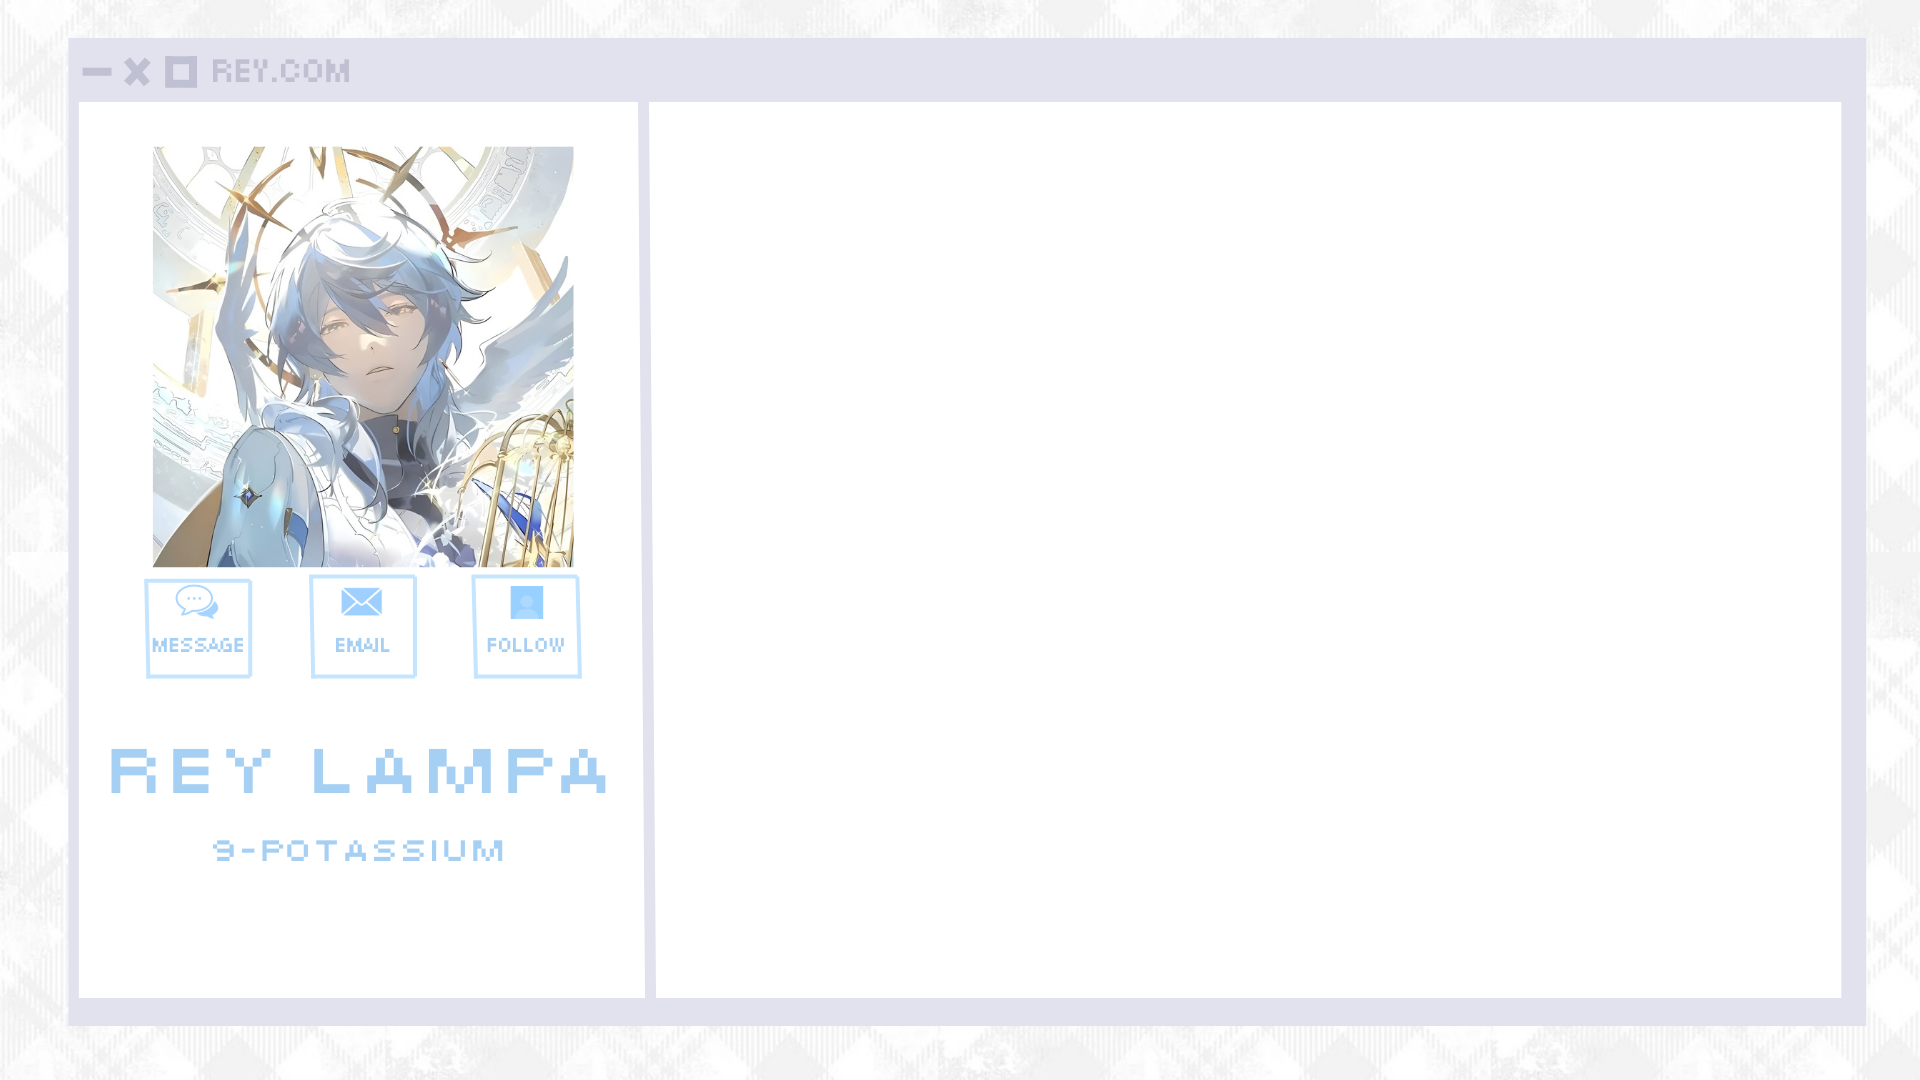
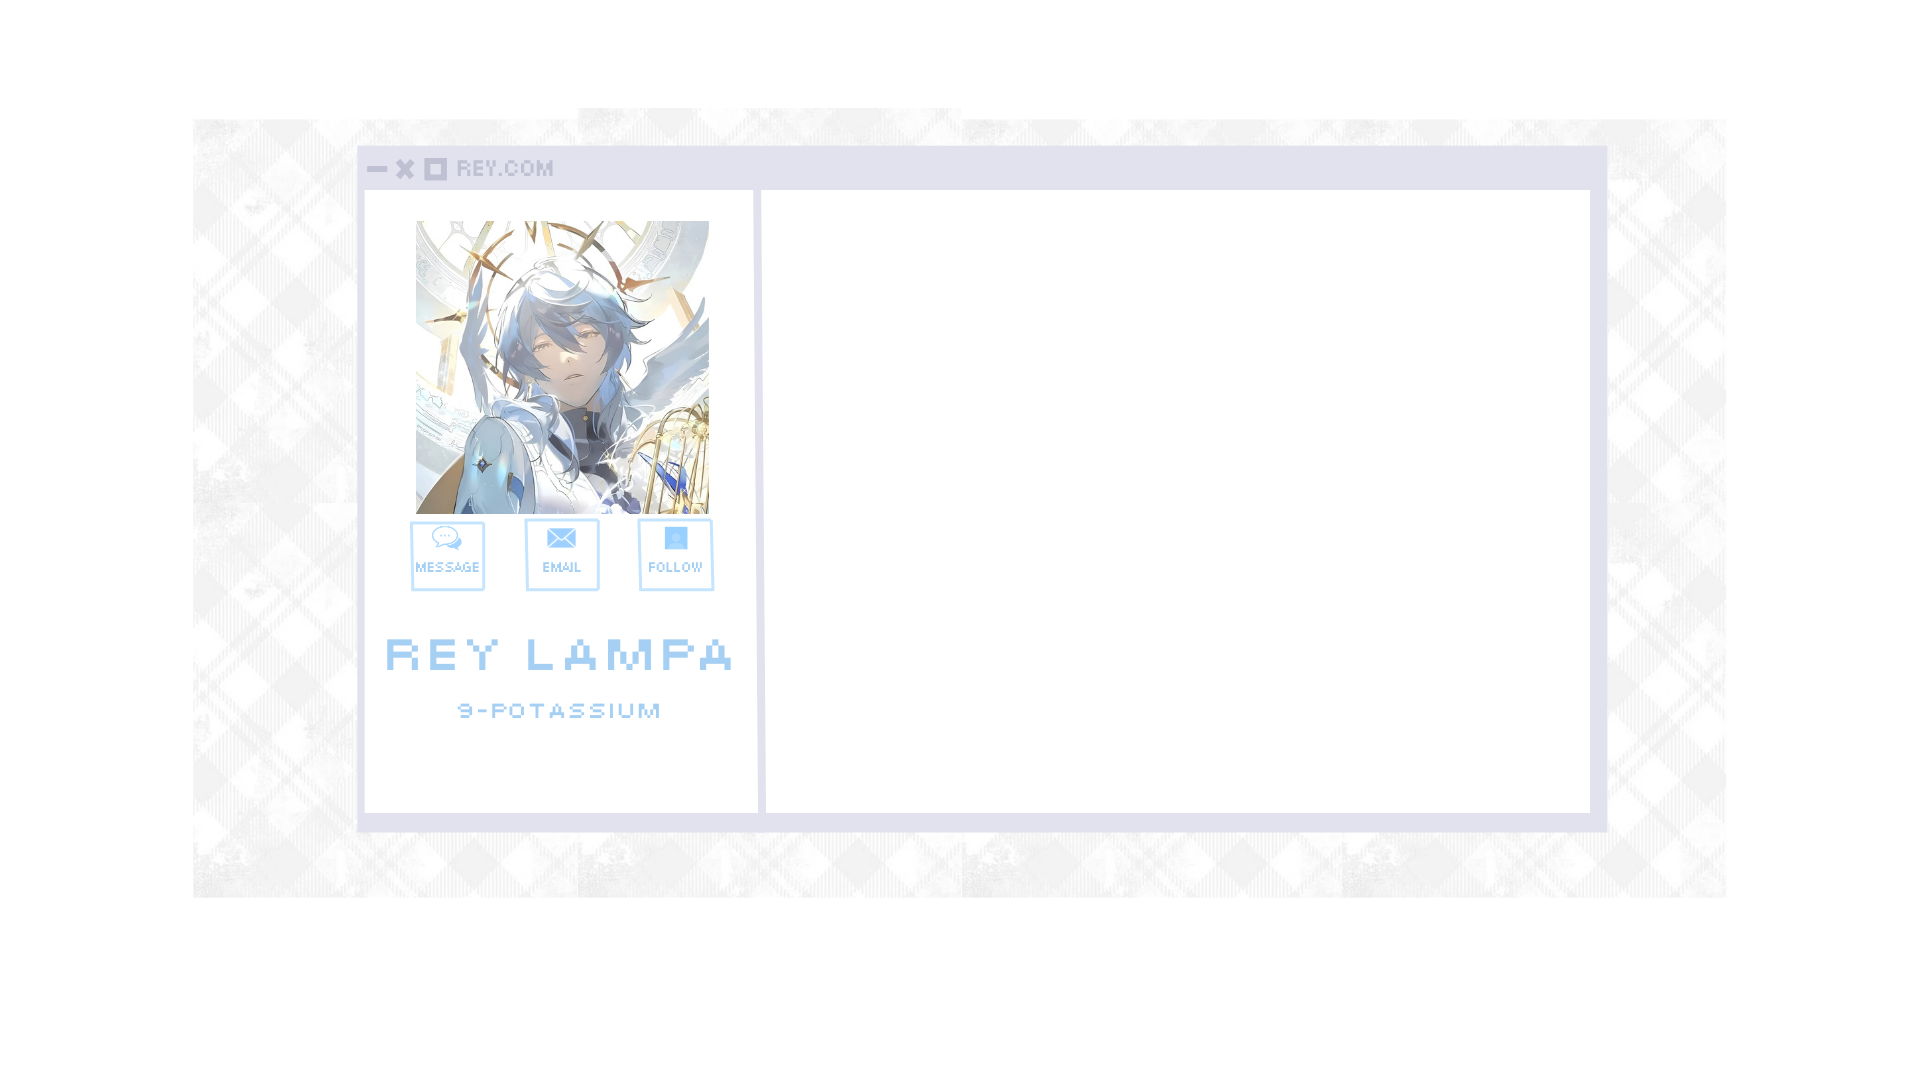
s

Changed region(s): [[0.0312, 0.0306, 0.9688, 0.9472]]

diff --git a/public/style.css b/public/style.css
@@ -1,5 +1,5 @@
 body {
   background-image: url("bg.png");
-  background-size: fill;
+  background-size:contain;
   background-repeat: no-repeat;
 }
